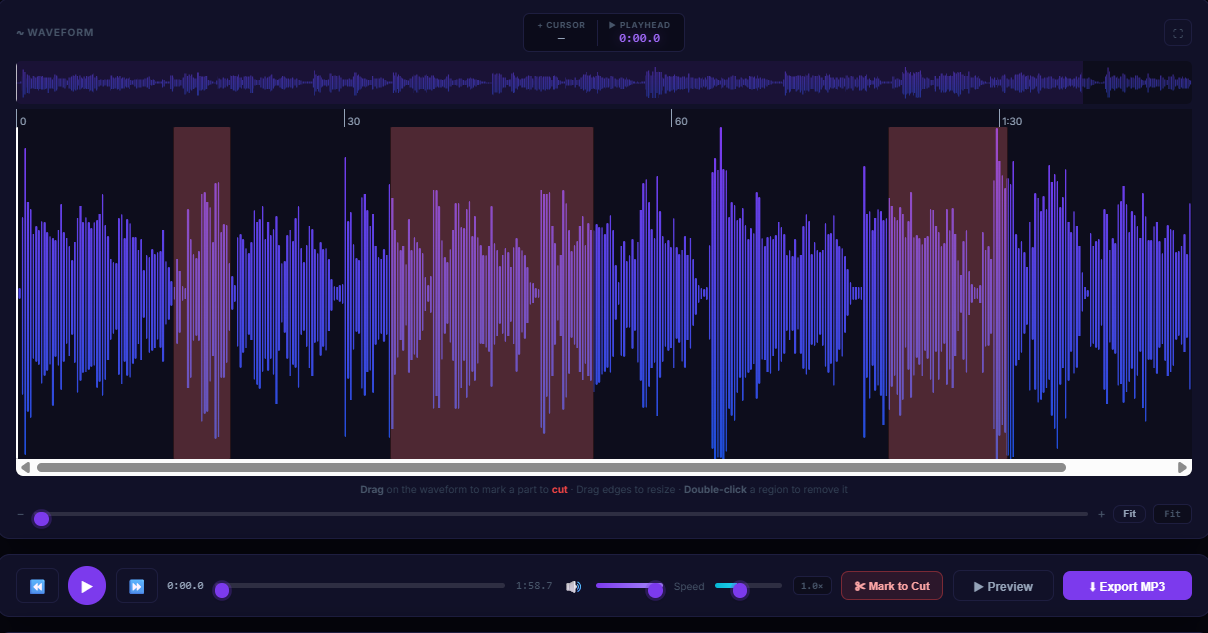
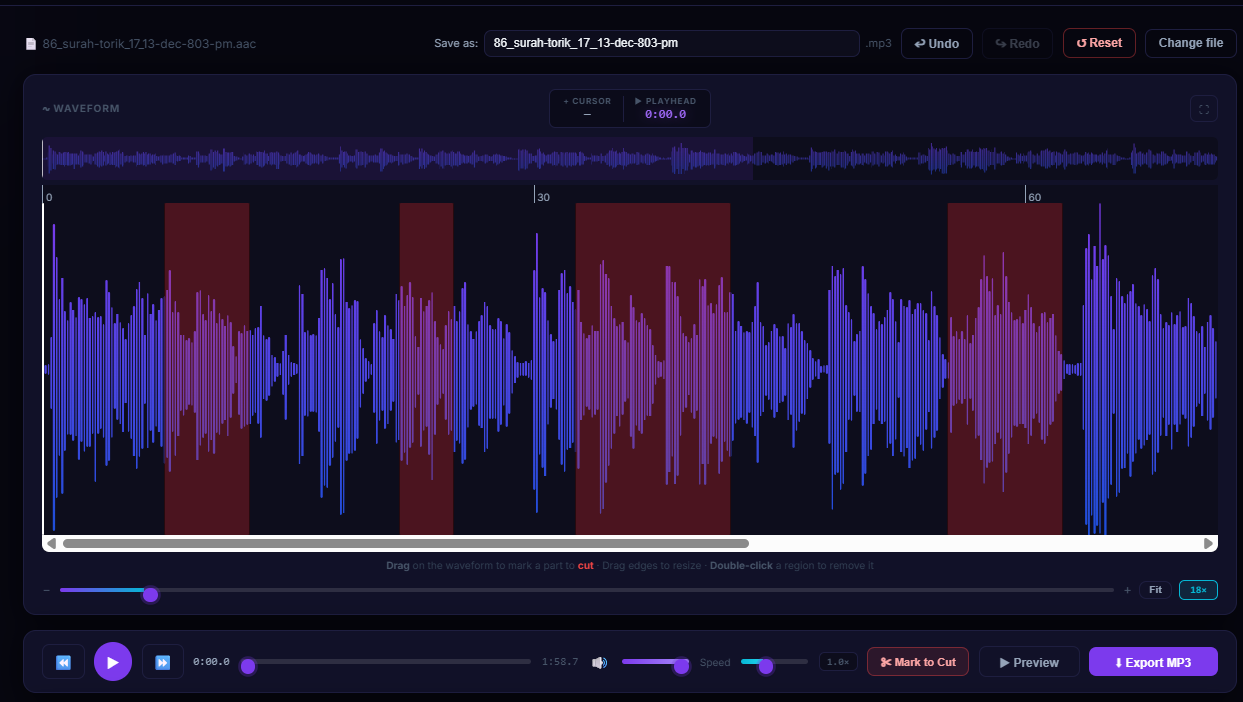
Add copyright footer

diff --git a/mp3-studio-web/app/page.tsx b/mp3-studio-web/app/page.tsx
@@ -165,6 +165,12 @@ export default function LandingPage() {
 
         {/* ── Screenshot 1: Main editor ── */}
         <section style={{ padding: "0 clamp(16px, 5vw, 64px) 80px", maxWidth: 1200, margin: "0 auto" }}>
+          <h2 style={{ textAlign: "center", fontSize: "clamp(22px, 3.5vw, 32px)", fontWeight: 800, marginBottom: 12 }}>
+            Multi-cut waveform editor
+          </h2>
+          <p style={{ textAlign: "center", color: "var(--text-muted)", marginBottom: 32, fontSize: 15 }}>
+            Mark multiple sections to remove in a single pass — no re-uploading, no repeating the process.
+          </p>
           <div className="glass" style={{ padding: 8, borderRadius: 14, overflow: "hidden" }}>
             <Image
               src="/screenshots/editor-main.png"
@@ -340,6 +346,10 @@ export default function LandingPage() {
           textAlign: "center", color: "var(--text-dim)", fontSize: 13,
         }}>
           MP3 Studio — Free online audio editor. No server. No sign-up. No size limit.
+          <br />
+          <span style={{ marginTop: 6, display: "inline-block" }}>
+            © {new Date().getFullYear()} RIN Production. All rights reserved.
+          </span>
         </footer>
       </div>
     </>
